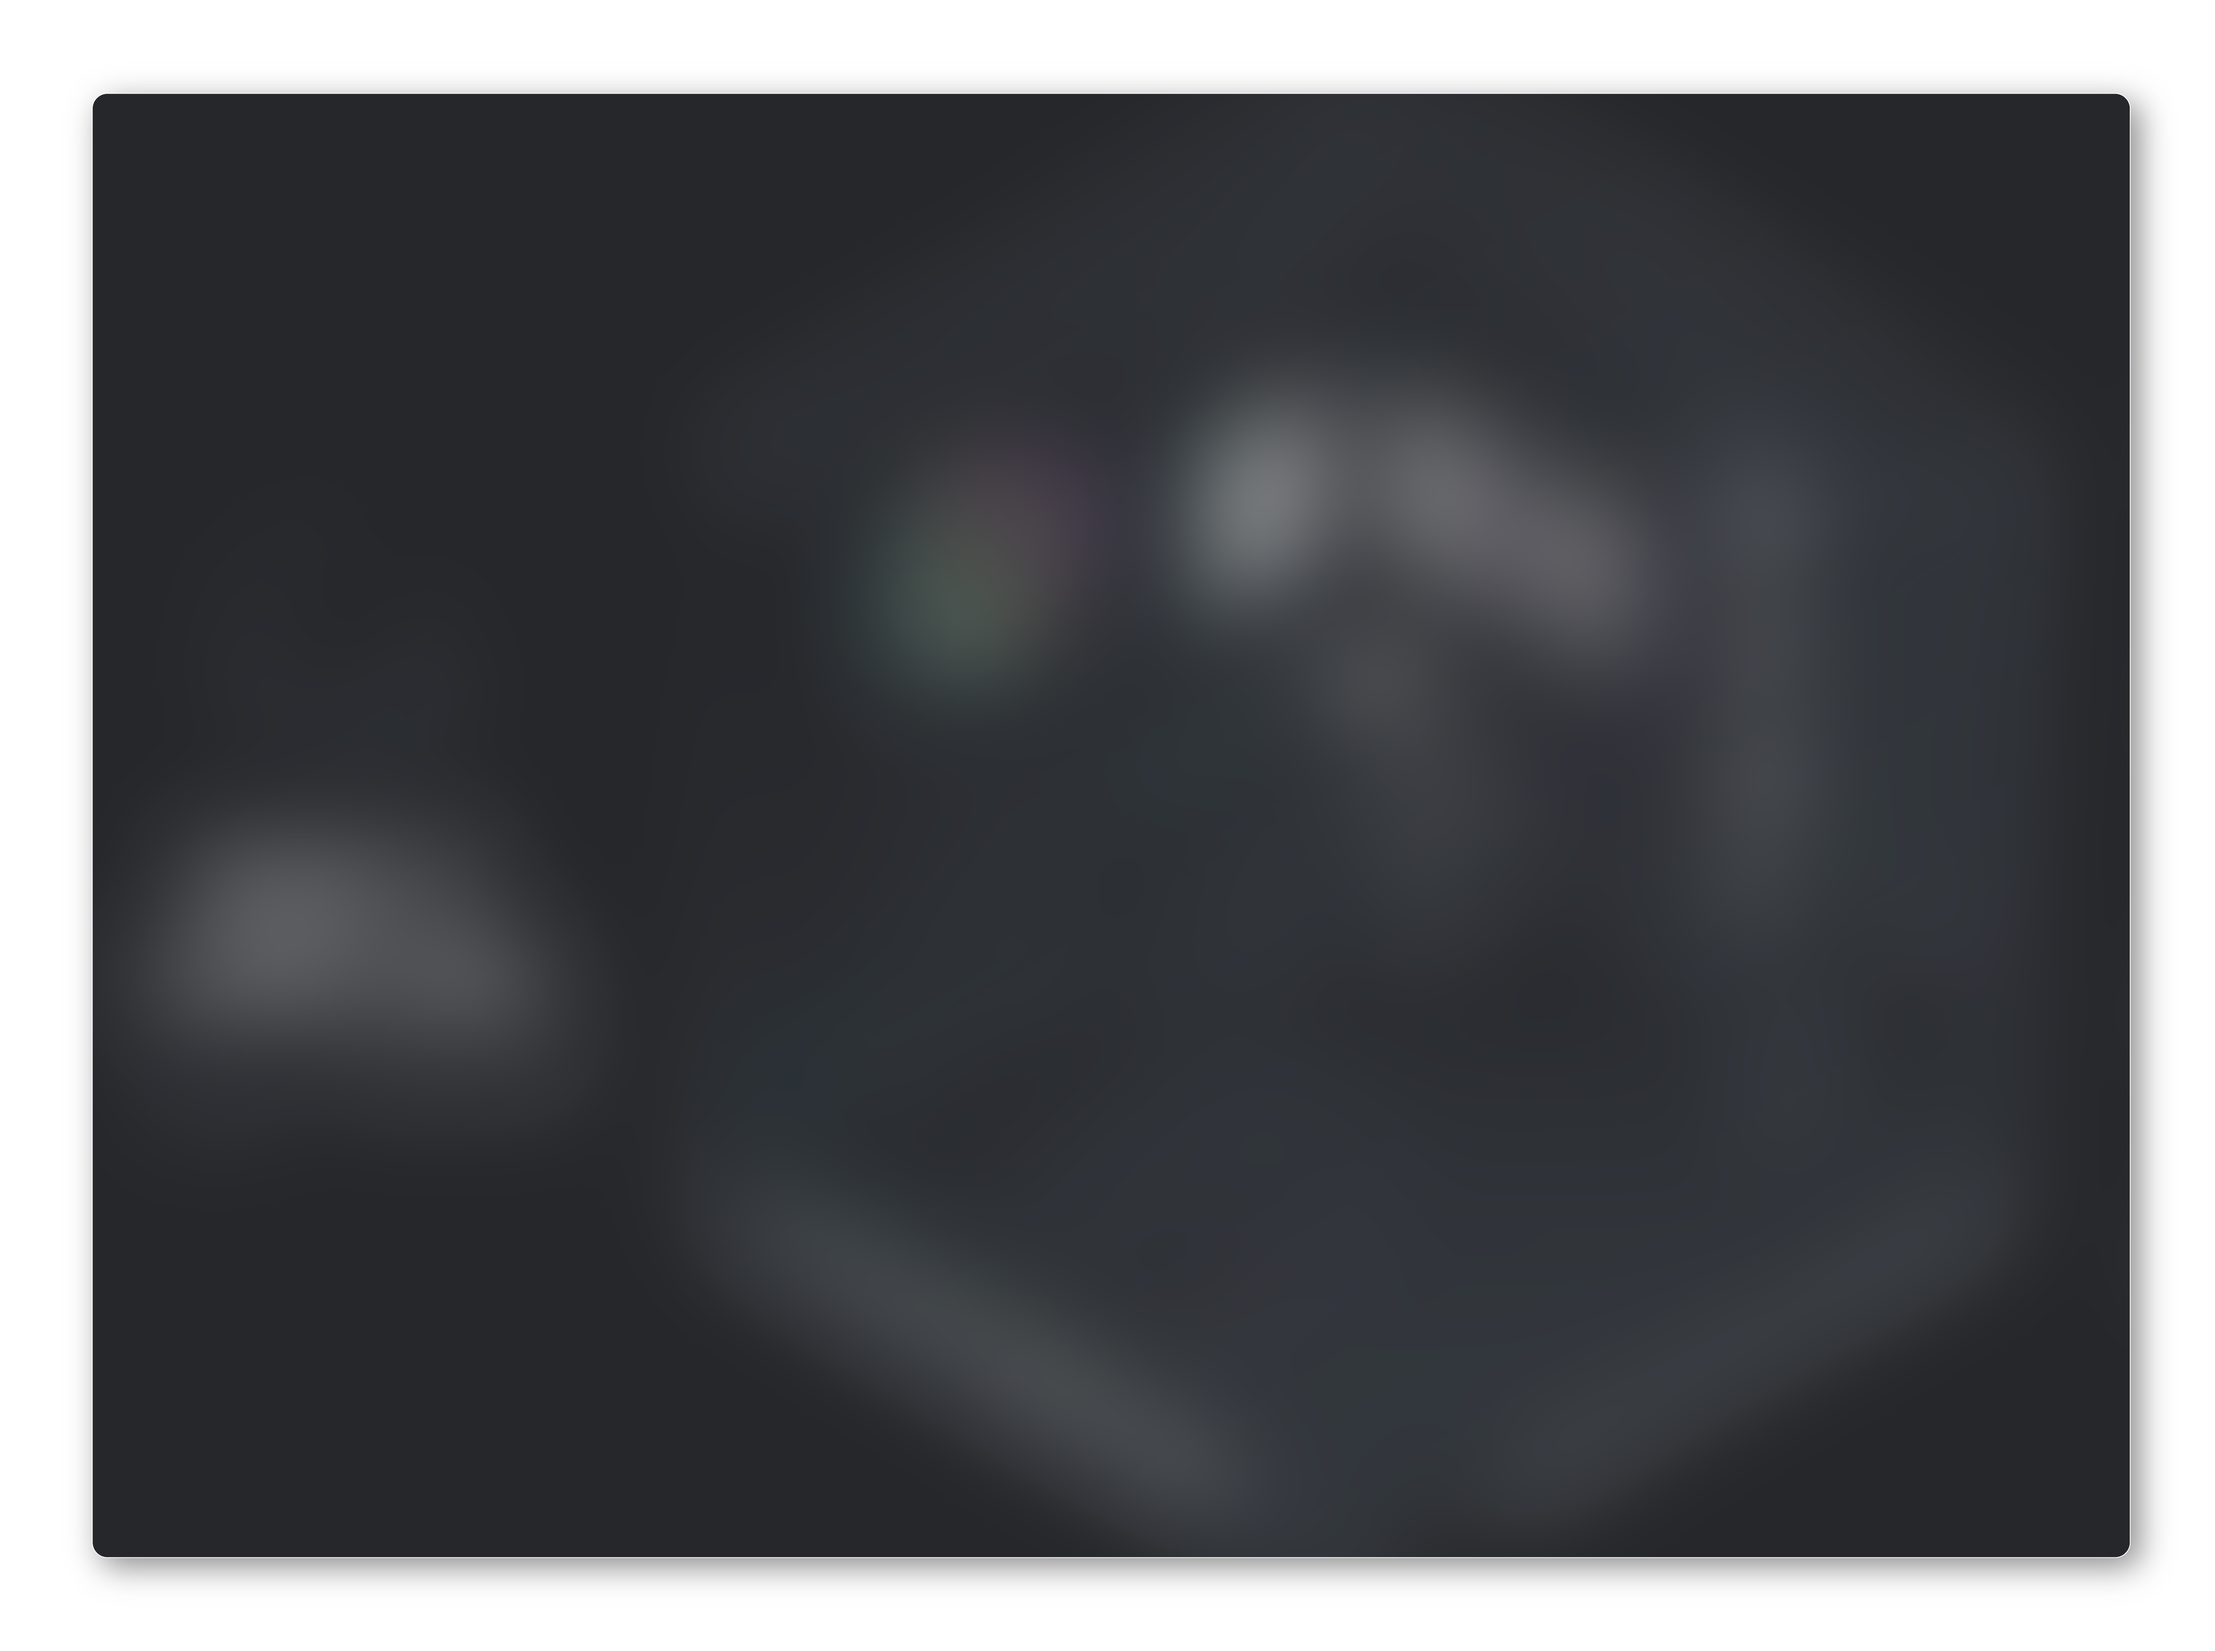
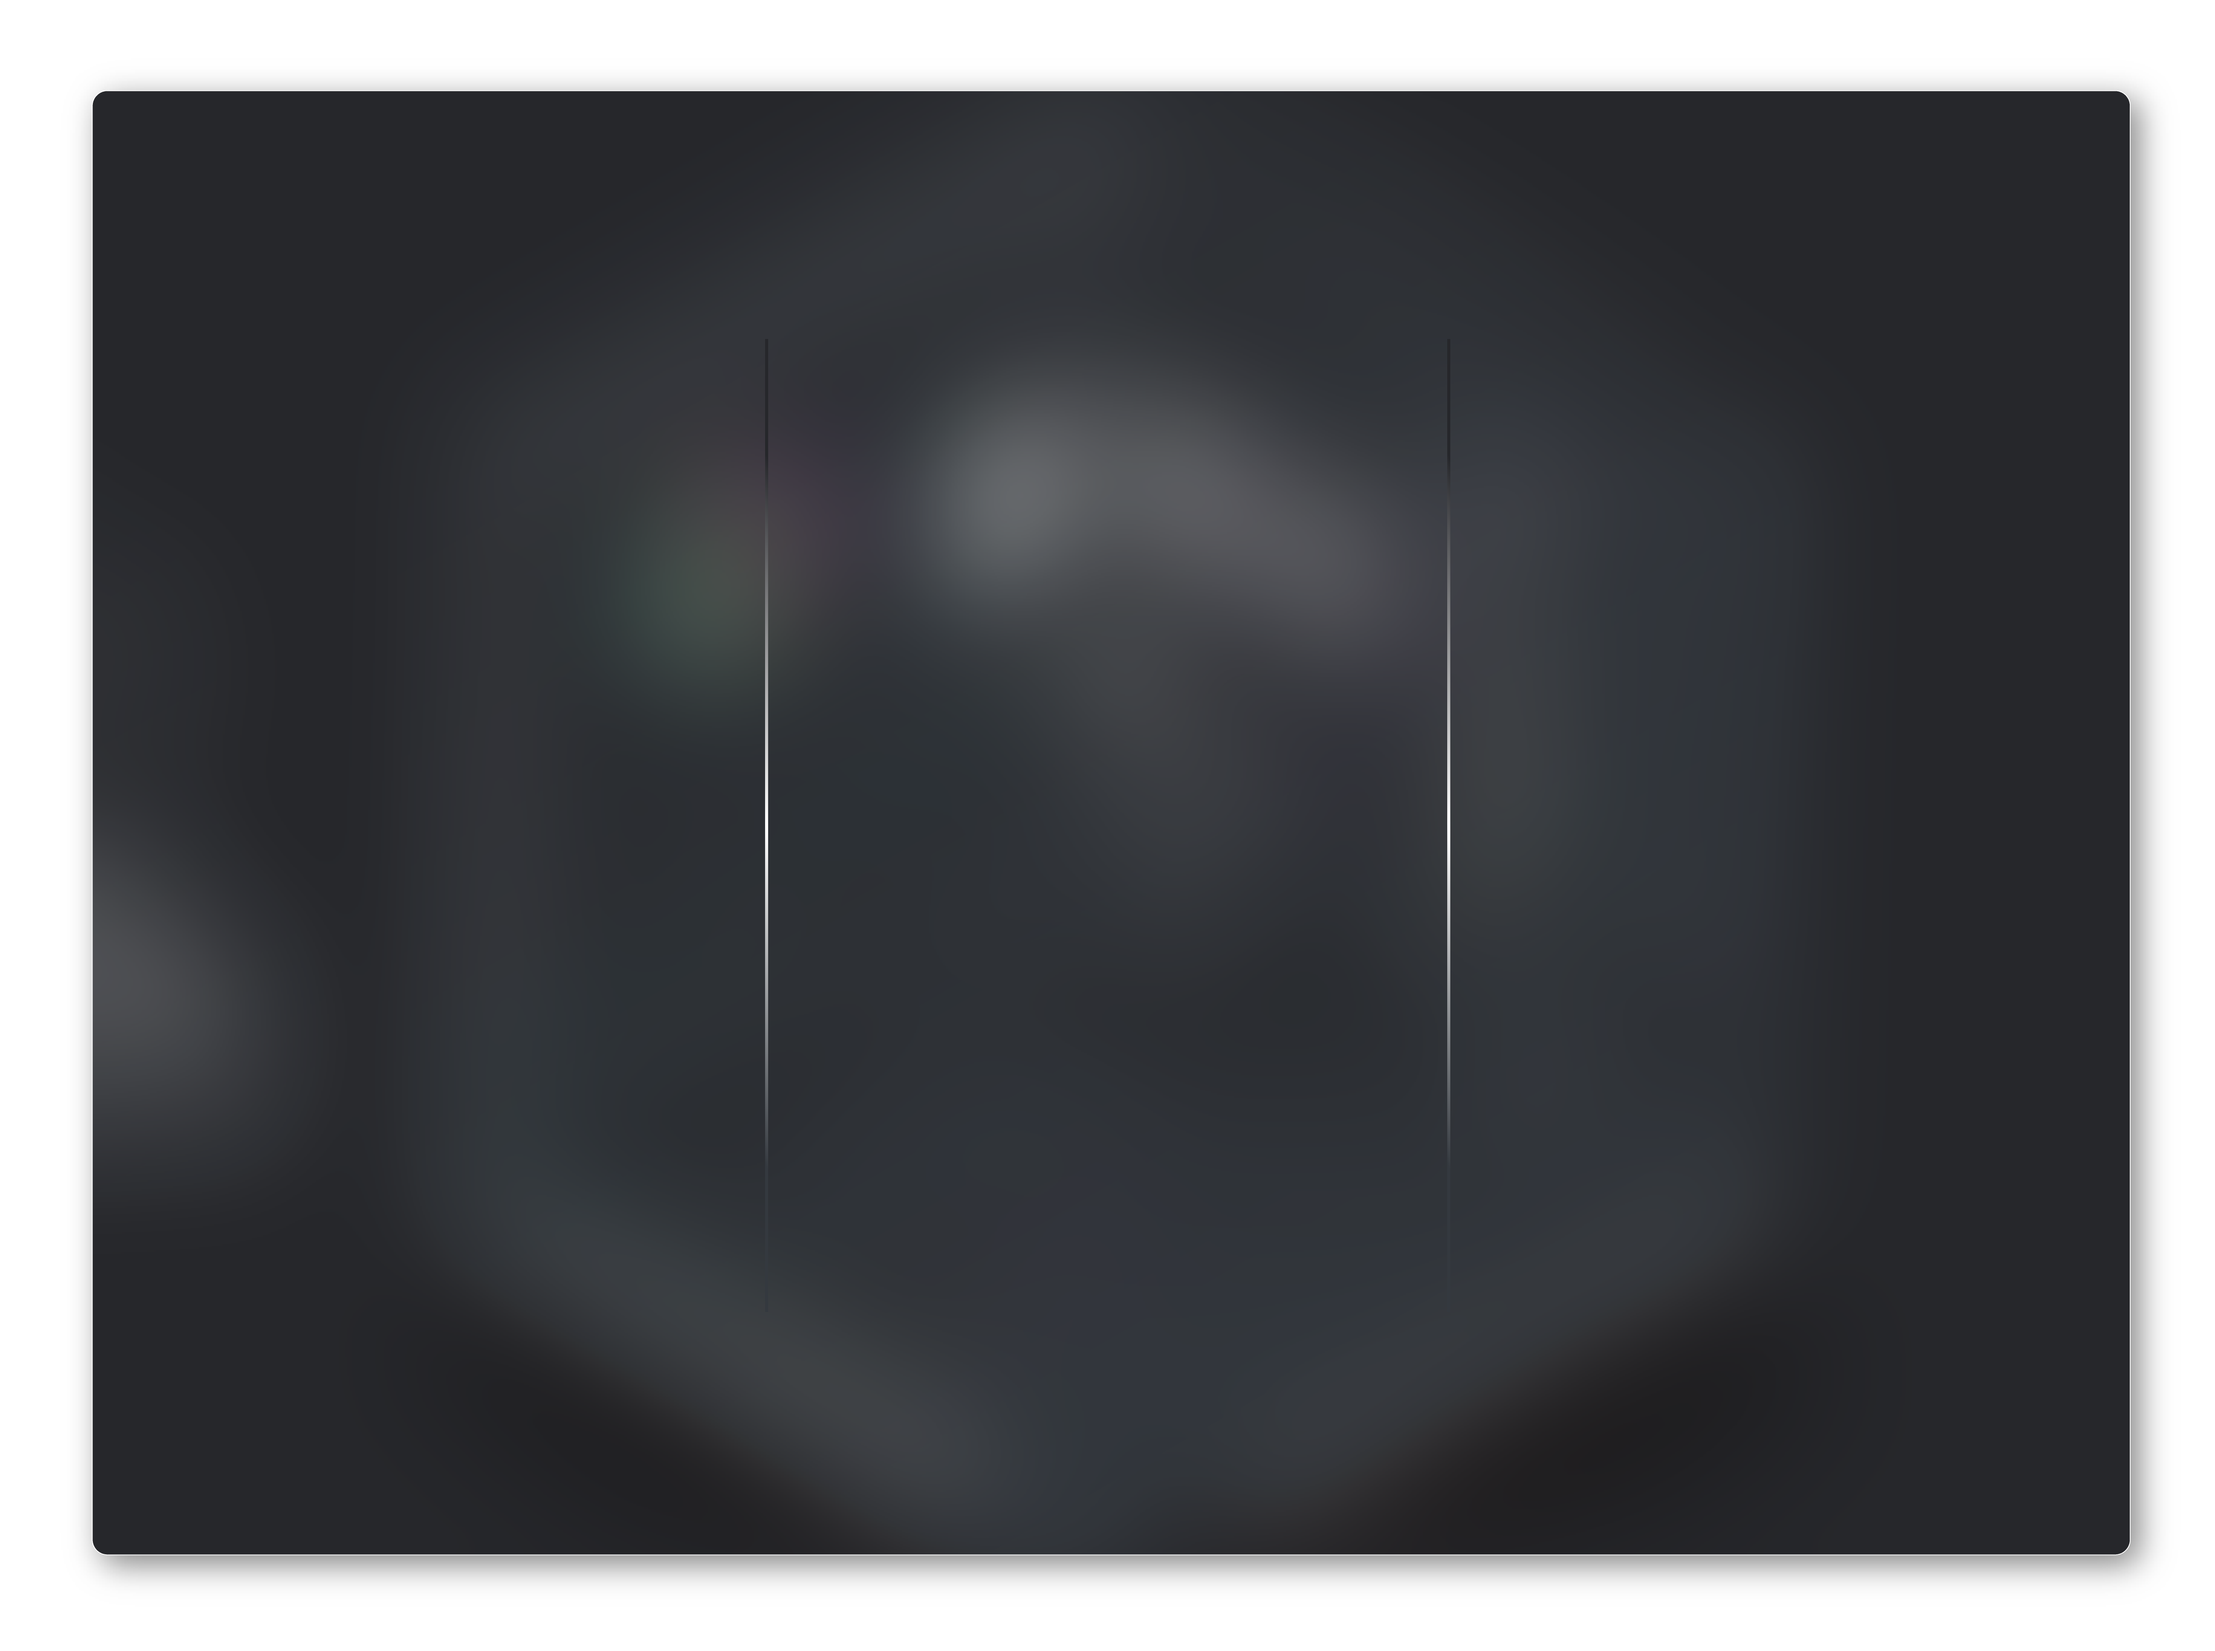
어바웃,포폴위치

diff --git a/resource/common.css b/resource/common.css
@@ -32,7 +32,7 @@ img {
 
 body {
   min-height:100vh;
-  background-image:url(img/bg_1_0.png);
+  background-image:url(img/bg_1_0.jpg);
   background-color: #26272B;
   background-size:1920px;
   background-position:center;
@@ -87,7 +87,7 @@ body {
   position: absolute;
   width: 166px;
   top:calc(50% - 320px);
-  left:calc(50% + 500px);
+  left:calc(50% + 645px);
   height:650px;
   text-align: center;
 }
@@ -151,7 +151,7 @@ body {
 .about_1 {
   position: absolute;
   top:calc(50% - 535px);
-  left:calc(50% - 900px);
+  left:calc(50% - 750px);
   width: 1450px;
   height: 1080px;
 }
@@ -161,7 +161,7 @@ body {
   width: 423px;
   height: 545px;
   top:calc(50% - 458px);
-  left:calc(50% - 757px);
+  left:calc(50% - 610px);
 }
 
 .about_3{
@@ -169,7 +169,16 @@ body {
   width: 426px;
   height: 644px;
   top:calc(50% - 270px);
-  left:calc(50% - 18px);
+  left:calc(50% + 133px);
+}
+
+.img_1_1 {
+  position: absolute;
+  opacity: 0;
+  transition: opacity 0.5s linear;
+}
+.img_1_1:hover {
+  opacity: 1;
 }
 
 .pf_1_1{
@@ -177,7 +186,7 @@ body {
   height: 900px;
   width:1250px;
   top:calc(50% - 440px);
-  left:calc(50% - 795px);
+  left:calc(50% - 645px);
   }
 
 .swiper-slide_1{

diff --git a/aboutMe.ssg.php b/aboutMe.ssg.php
@@ -2,8 +2,6 @@
 require_once "head.php";
 ?>
 
-<div class="bn_1_1_0"><img id="img_1_1" src="resource/img/bn_1_1_0.png" alt=""></div>
-
 <div class="about_1"><img src="resource/img/bn_1.png" alt=""></div>
 
 <div class="about_2">
@@ -11,7 +9,8 @@ require_once "head.php";
 </div>
 
 <div class="about_3">
-<img src="resource/img/bn_2_1.png" onmouseover="this.src='resource/img/bn_2_2.png'" onmouseout="this.src='resource/img/bn_2_1.png'">
+  <img class="img_1_1" src="resource/img/bn_2_2.png" alt="">
+  <img class="img_1_2" src="resource/img/bn_2_1.png" alt="">
 </div>
 
 

diff --git a/pf.ssg.php b/pf.ssg.php
@@ -21,7 +21,10 @@
           <img class="bn_3_1_3" src="resource/img/bn_3_1_3.svg" alt="">
         </div>
       </div>
-      <div class="swiper-slide">Slide 3</div>
+      <div class="swiper-slide swiper-slide_1">
+        <img class="bn_3_1_1" src="resource/img/bn_3_2_1.png" alt="">
+        <img class="bn_3_1_2" src="resource/img/bn_3_1_2.svg" alt="">
+      </div>
       <div class="swiper-slide">Slide 4</div>
       <div class="swiper-slide">Slide 5</div>
       <div class="swiper-slide">Slide 6</div>
